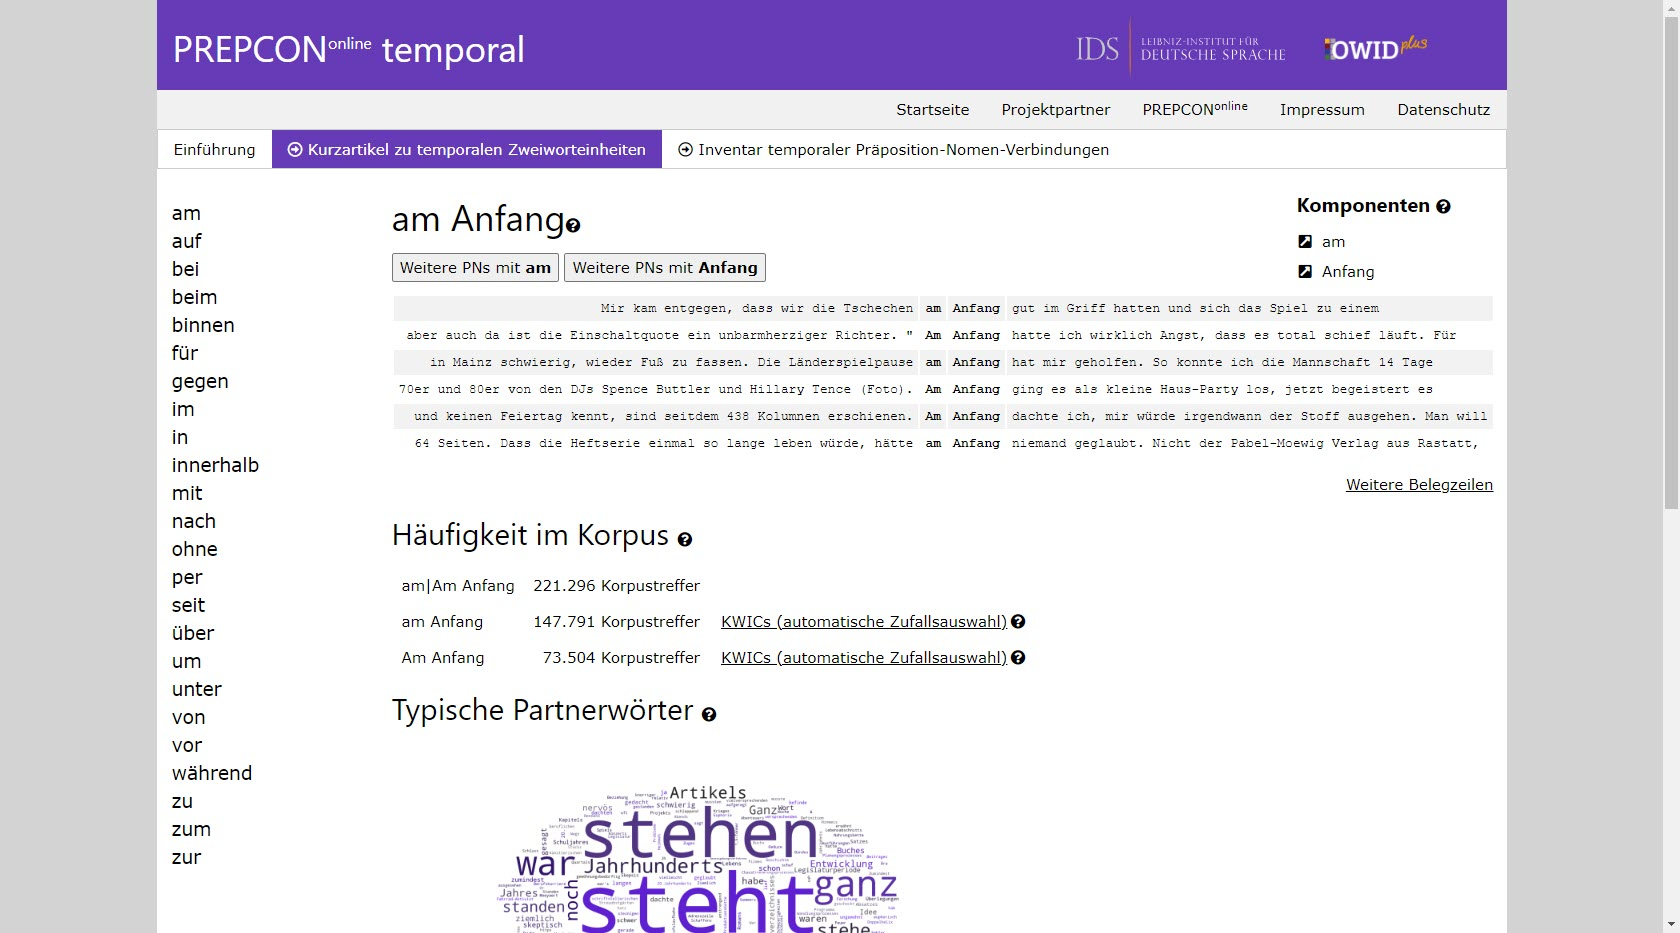
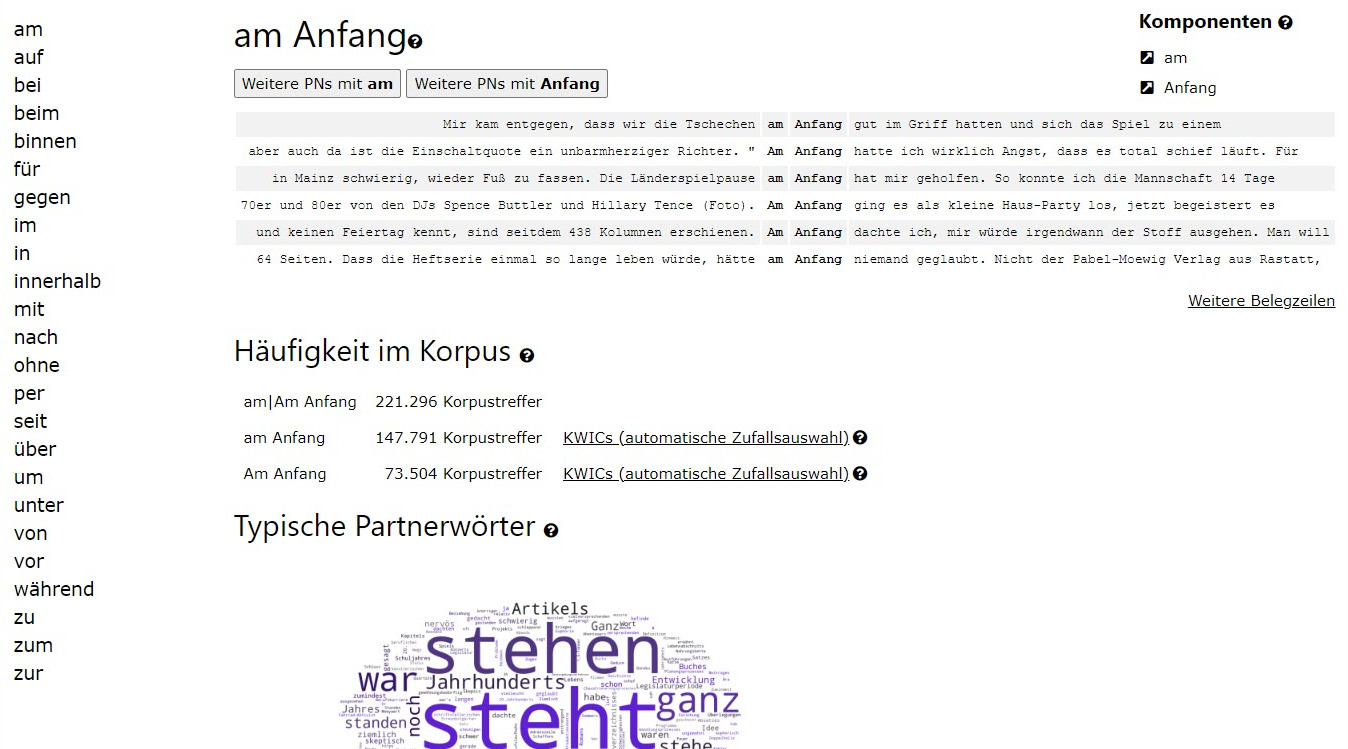
einige Bilder ausgetauscht

diff --git a/pages/index.vue b/pages/index.vue
@@ -6,20 +6,23 @@
     <v-row>
       <v-col>
         <div>
-          Das korpusbasierte Portal <hi>Syntagmatikon</hi> bietet Informationen zum Gebrauch von sprachlichen Ausdrücken,
-          die durch ihre wiederkehrende lineare Abfolge zu mehr oder weniger festen Wortschatzeinheiten geworden
-          sind: Phraseologismen, Sprichwörter und Sprüche; Kollokationen; Komposita und andere Wortbildungseinheiten;
-          Präpositionen + Substantiv-Kombinationen; Verb + Präpositionen-Kombinationen; wortgruppenartige Redeeinleiter.
-          Des Weiteren werden diesen Einheiten zugrunde liegenden Schablonen und Schemata (Muster) und die vielfachen
-          Vernetzungen im deutschen Wortschatz auf unterschiedliche Weise beschrieben und visualisiert.
-        </div>
-        <div>Das Syntagmatikon befindet sich aktuell im Aufbau.</div>
+          Das korpusbasierte Portal <hi>Syntagmatikon</hi> bietet Informationen zum Gebrauch von sprachlichen Ausdrücken, die durch ihre wiederkehrende lineare Abfolge zu mehr oder weniger festen Wortschatzeinheiten geworden sind.</div>
+          <!--
+          <div>Die folgenden <hi>interaktiven Beispiele</hi> illustrieren die Vielfalt solcher Ausdrücke und ihre Verwendung im Text. 
+        </div> -->
       </v-col>
     </v-row>
     <v-row>
       <v-col>
         <div>
           <Sampler :items="sample"></Sampler>
+        </div>
+      </v-col>
+    </v-row>
+    <v-row>
+      <v-col>
+        <div>
+          Aktuell werden Phraseologismen, Sprichwörter und Sprüche; Kollokationen; Komposita und andere Wortbildungseinheiten; Präpositionen + Substantiv-Kombinationen; Verb + Präpositionen-Kombinationen; wortgruppenartige Redeeinleiter dokumentiert und beschrieben. Des Weiteren widmet sich das Portal der Analyse und Darstellung zugrunde liegender Schablonen und Schemata (Muster) und deren vielfachen Vernetzungen im deutschen Wortschatz.
         </div>
       </v-col>
     </v-row>
@@ -163,7 +166,7 @@ export default {
               source: 'Phrasenkomposita-Inventar',
               article: 'Im-fremden-Bett-schlaf-ich-immer-schlecht-Sensibelchen',
               type: 'Phrasenkompositum',
-              href: 'http://owid.de',
+              href: '',
               color: '#0d65c2'
             }
             ]
@@ -177,7 +180,7 @@ export default {
               source: 'Kompositamuster-Explorer',
               article: 'Kopfkissen',
               type: 'Kompositum',
-              href: 'http://owid.de',
+              href: 'https://www.owid.de/plus/komux/?lem=kopfkissen',
               color: '#008702'
             }
             ]
@@ -219,7 +222,7 @@ export default {
               source: 'Kleines Wörterbuch der Redeeinleiter',
               article: 'in den Sinn kommen',
               type: 'Redeeinleiter',
-              href: 'https://owid.de',
+              href: 'https://www.owid.de/plus/redeeinleiter',
               color: '#0d65c2'
             }
             ]
@@ -270,10 +273,10 @@ export default {
             }
             ],
             references: [{
-              source: 'Komposita-Explorer',
+              source: 'Kompositamuster-Explorer',
               article: 'Vorstandschef',
               type: 'Kompositum',
-              href: 'https://www.owid.de/',
+              href: 'https://www.owid.de/plus/komux/?lem=Vorstandschef',
               color: '#0d65c2'
             }
             ]
@@ -287,7 +290,7 @@ export default {
               source: 'Kleines Wörterbuch der Redeeinleiter',
               article: 'sagen',
               type: 'Redeeinleiter',
-              href: 'https://www.owid.de/',
+              href: 'https://www.owid.de/plus/redeeinleiter/',
               color: '#c5049b'
             }
             ]
@@ -304,7 +307,7 @@ export default {
               source: 'MAP',
               article: 'sagen vor',
               type: 'Argumentmarkierende Präposition',
-              href: 'https://www.owid.de/artikel/309167',
+              href: '',
               color: '#0d65c2'
             }
             ]
@@ -318,7 +321,7 @@ export default {
               source: 'WV-Feld',
               article: 'aus persönlichen Gründen',
               type: 'Präposition-Nomen-Verbindung',
-              href: 'https://www.owid.de/artikel/309167',
+              href: 'http://wvonline.ids-mannheim.de/wvfelder-v3/uwvnodes_html/aus_ADJ_Gruenden_ID1364235183677.html',
               color: '#c5049b'
             }
             ]
@@ -332,7 +335,7 @@ export default {
               source: 'PREPCON <sup>explorativ</sup>',
               article: 'in München',
               type: 'Sprachgebrauchsmuster',
-              href: 'https://www.owid.de/artikel/309167',
+              href: 'http://uwv.ids-mannheim.de/prepcon/modul1/tables.html?noun=M%C3%BCnchen',
               color: '#0d65c2'
             }
             ]
@@ -345,14 +348,14 @@ export default {
             references: [{
               source: 'PREPCON <sup>temporal</sup>',
               article: 'am Montagabend',
-              type: 'Kompositum',
-              href: 'https://www.owid.de/artikel/309167',
+              type: 'Präposition-Nomen-Verbindung',
+              href: 'http://uwv.ids-mannheim.de/prepcon/modul2/inventar/inventar_tagz_end.html#am_Montagabend',
               color: '#c5049b'
             }, {
               source: 'PREPCON <sup>explorativ</sup>',
               article: 'am Montagabend',
-              type: 'Kompositum',
-              href: 'https://www.owid.de/artikel/309167',
+              type: 'Präposition-Nomen-Verbindung',
+              href: 'http://uwv.ids-mannheim.de/prepcon/modul1/tables.html?noun=Montagabend',
               color: '#c5049b'
             }
             ]
@@ -363,10 +366,10 @@ export default {
             }
             ],
             references: [{
-              source: 'Komposita-Explorer',
+              source: 'Kompositamuster-Explorer',
               article: 'Montagabend',
-              type: 'Präposition-Nomen-Verbindung',
-              href: 'https://www.owid.de/artikel/309167',
+              type: 'Kompositum',
+              href: 'https://www.owid.de/plus/komux/?lem=Montagabend',
               color: '#0d65c2'
             },
             ]
@@ -384,7 +387,7 @@ export default {
               source: 'Deutsch-Russische Idiome online',
               article: 'den Boden unter den Füßen verlieren',
               type: 'Verbales Phrasem',
-              href: 'https://www.owid.de/artikel/309167',
+              href: 'http://wvonline.ids-mannheim.de/idiome_russ/BODEN_den_Boden_unter_den_Fuessen_verlieren.htm',
               color: '#0d65c2'
             }
             ]
@@ -400,9 +403,9 @@ export default {
             ],
             references: [{
               source: 'Deutsch-türkische Wortverbindungen Wirtschaft',
-              article: 'den Boden unter den Füßen verlieren',
+              article: 'Dachgesellschaft',
               type: 'Kompositum',
-              href: 'https://www.owid.de/artikel/309167',
+              href: 'http://wvonline.ids-mannheim.de/dtww/dtww_d.htm',
               color: '#0d65c2'
             }
             ]
@@ -410,8 +413,8 @@ export default {
           ],
         },
       ],
-      list_public: ["ZUWV", "DRIO", "WVBF", "PAROWB", "KWViD", "SPRW", "DTWW", "SpruchList", "WÖRE", "PREPCON", "KoMuX"],
-      list_todo: ["MAP", "PHKO"],
+      list_public: ["ZUWV", "DRIO", "WVBF", "PAROWB", "KWViD", "SPRW", "DTWW", "SpruchList", "Redeeinleiter", "PREPCON", "KoMuX"],
+      list_todo: ["MAP", "PhrasKomp"],
     }
   }
 }

diff --git a/stores/resources.js b/stores/resources.js
@@ -20,6 +20,7 @@ export const useResourcesStore = defineStore('resourcesStore', {
         "search_patterns": ["Erschließungsmuster", "Musterzugang", "Musterangabe"],
         "search_parts": ["Verb", "Nomen", "Adjektiv"],
       },
+      /*
       {
         "key": "PREPCON",
         "nameShort": "PREPCON<sup>online</sup>",
@@ -35,6 +36,7 @@ export const useResourcesStore = defineStore('resourcesStore', {
         "search_patterns": ["Erschließungsmuster", "Musterzugang", "Musterangabe"],
         "search_parts": ["Verb", "Nomen", "Präposition", "Adjektiv", "Adverb", "Phrasem", "Satz"],
       },
+      */
       {
         "key": "PREPCON_ex",
         "nameShort": "PREPCON<sup>explorativ</sup>",
@@ -163,7 +165,7 @@ export const useResourcesStore = defineStore('resourcesStore', {
         "nameShort": "Feste Wortverbindungen",
         "nameLong": "Feste Wortverbindungen des Deutschen",
         "description": 'Lorem ipsum dolor, sit amet consectetur adipisicing elit. Alias eaque recusandae dolorem quae eum ipsum sapiente itaque officia reiciendis enim et voluptate sunt, veritatis provident assumenda pariatur autem quia! Pariatur.',
-        "img": "/img/sources/dummy.png",
+        "img": "/dummy/resource.png",
         "url": "https://www.owid.de/wb/sprw/start.html",
         "tags": [],
         "quest": "https://www.owid.de",
@@ -192,7 +194,7 @@ export const useResourcesStore = defineStore('resourcesStore', {
       },
       {
         "key": "WVBF",
-        "nameShort": "Wortverbindungsfeld",
+        "nameShort": "Wortverbindungsfeld Grund",
         "nameLong": "Wortverbindungsfeld zu Präposition+Grund",
         "description": 'Lorem ipsum dolor, sit amet consectetur adipisicing elit. Alias eaque recusandae dolorem quae eum ipsum sapiente itaque officia reiciendis enim et voluptate sunt, veritatis provident assumenda pariatur autem quia! Pariatur.',
         "img": "/img/sources/wortverbindungsfelder.jpg",
@@ -227,7 +229,7 @@ export const useResourcesStore = defineStore('resourcesStore', {
         "nameShort": "Phrasenkomposita des Deutschen",
         "nameLong": "Inventar von Phrasenkomposita des Deutschen",
         "description": 'Lorem ipsum dolor, sit amet consectetur adipisicing elit. Alias eaque recusandae dolorem quae eum ipsum sapiente itaque officia reiciendis enim et voluptate sunt, veritatis provident assumenda pariatur autem quia! Pariatur.',
-        "img": "/img/sources/dummy.png",
+        "img": "/dummy/resource.png",
         "url": "",
         "tags": [],
         "search_display": "Netz",
@@ -245,7 +247,7 @@ export const useResourcesStore = defineStore('resourcesStore', {
         "nameShort": "Varietäten",
         "nameLong": "Studie 'Lexikalische Dynamik deutschsprachiger Varietäten im Kontakt'",
         "description": 'Lorem ipsum dolor, sit amet consectetur adipisicing elit. Alias eaque recusandae dolorem quae eum ipsum sapiente itaque officia reiciendis enim et voluptate sunt, veritatis provident assumenda pariatur autem quia! Pariatur.',
-        "img": "/img/sources/dummy.png",
+        "img": "/dummy/resource.png",
         "url": "",
         "tags": [],
         "search_display": "Netz",

diff --git a/components/Sampler.vue b/components/Sampler.vue
@@ -4,19 +4,18 @@
   style="border:1px black solid; border-radius: 5px; padding: 10px; background-color: rgba(0, 0, 0, 0.05);">
   <v-row style="margin-top:-20px">
       <v-col>
-        <p class="text-xl">Interaktive-Beispiele</p>
-        <p class="text-l">Klicken Sie auf eine Stelle im Beispiel, um eine Liste zugehöriger Ressourcen im Syntagmatikon
-          anzuzeigen.
-          Mit einem erneuten Klick auf eine der Ressourcen rufen Sie diese auf.
-        </p>        
+        <p class="text-xl">Interaktive Beispiele</p> 
+       <!-- <p class="text-l">Durch Klicken auf die Beispiele im Beleg werden darunter die zugehörigen Ressourcen im Syntagmatikon mit entsprechender Verlinkung zum dortigen Eintrag angezeigt. 
+        </p>  -->     
       </v-col>
-    </v-row>
+    </v-row> 
+
     <v-row>
       <v-col>
         <div @mouseenter="carouselStop" @mouseleave="carouselStart"
           style="border: 1px white solid; border-radius: 5px; padding: 5px; background-color: white;">
           <v-carousel hide-delimiter-background hide-delimiters continuous ref="carousel" v-model="tab" :cycle="cycle"
-            class="notransition">
+            class="notransition" interval="10000">
             <v-carousel-item v-for="(item, i) in generatePages()" :key="i" eager>
               <v-sheet height="100%">
                 <div style="padding:7px 75px 5px 75px;">
@@ -55,6 +54,14 @@
             </template>
           </v-carousel>
         </div>
+      </v-col>
+    </v-row>
+    
+    <v-row style="margin-top:-20px">
+    <v-col>
+        <!-- <p class="text-xl">Interaktive Beispiele</p> -->
+        <p class="text-l">Durch Klicken auf die Beispiele im Beleg werden darunter die zugehörigen Ressourcen im Syntagmatikon mit entsprechender Verlinkung zum dortigen Eintrag angezeigt. 
+        </p>        
       </v-col>
     </v-row>
   </div>
@@ -175,7 +182,7 @@ export default {
 }
 
 .animated {
-  animation: pulsate 2s infinite;
+  animation: pulsate 10s infinite;
 }
 
 .v-window__controls > button {

diff --git a/pages/resources/index.vue b/pages/resources/index.vue
@@ -63,11 +63,11 @@ definePageMeta({
             <resources-list :filter="['SPRW', 'FesteWV','DRI']" :showDesc="false"></resources-list>
           </tile>
 
-          <tile title="Datikon" img="/img/resources/05.png" link="/resources/visualisations">
+          <tile title="Datikon" img="/img/resources/05.png" link="/resources/datikon">
             Dynamisch-flexible Präsentations- und Visualisierungsformen, bei denen automatisch ermittelte
             Korpusausschnitte wie KWICs, Kookkurrenzprofile und Slot-Filler-Tabellen ins Zentrum der Ressource
             rücken<br />
-            <resources-list :filter="['WVBF', 'PREPCON']" :showDesc="false"></resources-list>
+            <resources-list :filter="['WVBF', 'PREPCON_ex', 'PREPCON_temp', 'PREPCON_kon']" :showDesc="false"></resources-list>
           </tile>
 
           <tile title="Pilot- und Einzelstudien" img="/img/resources/06.png">

diff --git a/pages/resources/datikon.vue b/pages/resources/datikon.vue
@@ -16,5 +16,5 @@
             Texten sichtbar wird.</p>
 
     </div>
-    <resources-list :filter="['WVBF', 'PREPCON']"></resources-list>
+    <resources-list :filter="['WVBF', 'PREPCON_ex', 'PREPCON_temp', 'PREPCON_kon']"></resources-list>
 </template>
